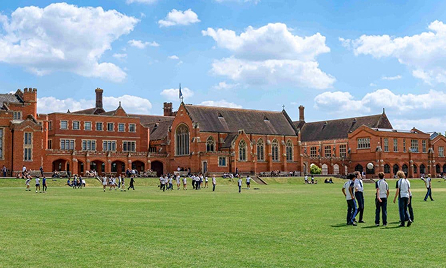
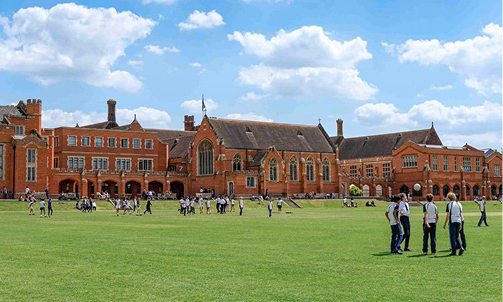
Add files via upload

diff --git a/visit-us.html b/visit-us.html
@@ -166,7 +166,7 @@ nav.nav-hidden {
 .photo-collage {
   position: relative;
   width: 375px;
-  height: 830px;
+  height: 850px;
   margin-top: 0;
   flex-shrink: 0;
   overflow: hidden;
@@ -176,10 +176,14 @@ nav.nav-hidden {
   object-fit: cover;
   display: block;
 }
-.photo-centre-top   { width: 223px; height: 279px; left: 76px;  top: 69px;  }
-.photo-left         { width: 165px; height: 99px;  left: 18px;  top: 396px; }
-.photo-right        { width: 136px; height: 170px; left: 221px; top: 473px; }
-.photo-centre-bottom{ width: 223px; height: 134px; left: 76px;  top: 692px; }
+/* Retina ×2 exports — display at half natural resolution.
+   Page order top→bottom: centre-top, photo-left, photo-right, centre-bottom.
+   Depth (z-index): photo-left=front(4), centre-top(3), photo-right(2), centre-bottom=back(1).
+   Images overlap at diagonal corners — z-index controls which sits in front. */
+.photo-centre-top   { width: 223px; height: 279px; left: 109px; top: 32px;  z-index: 3; }
+.photo-left         { width: 223px; height: 134px; left: 18px;  top: 300px; z-index: 4; }
+.photo-right        { width: 194px; height: 243px; left: 163px; top: 422px; z-index: 2; }
+.photo-centre-bottom{ width: 252px; height: 151px; left: 62px;  top: 654px; z-index: 1; }
 
 /* ─────────────────────────────
    OPEN DAYS SECTION
@@ -761,10 +765,10 @@ nav.nav-hidden {
 
   <!-- ── PHOTO COLLAGE ── -->
   <div class="photo-collage">
-    <img class="photo-centre-top"    src="visit-photo-centre-top.jpg"    alt="Bancroft's open day">
-    <img class="photo-left"          src="visit-photo-left.jpg"           alt="School building">
-    <img class="photo-right"         src="visit-photo-right.jpg"          alt="School pupils">
     <img class="photo-centre-bottom" src="visit-photo-centre-bottom.jpg"  alt="School grounds">
+    <img class="photo-right"         src="visit-photo-right.jpg"          alt="School pupils">
+    <img class="photo-centre-top"    src="visit-photo-centre-top.jpg"     alt="Bancroft's open day">
+    <img class="photo-left"          src="visit-photo-left.jpg"           alt="Bancroft's pupils">
   </div>
 
   <!-- ── OPEN DAYS ── -->
